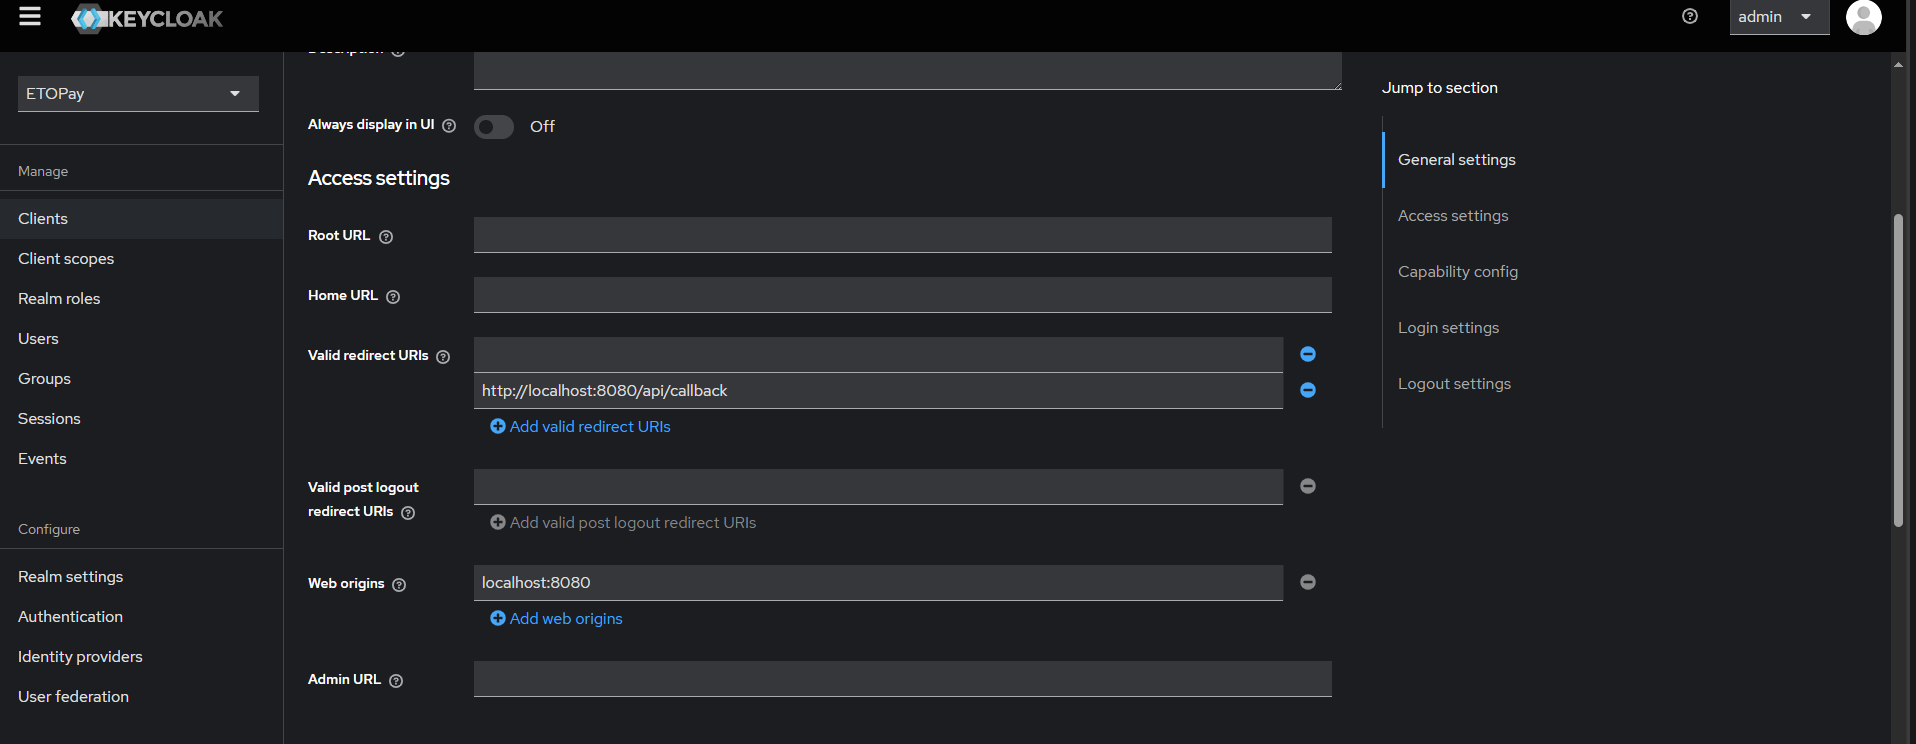
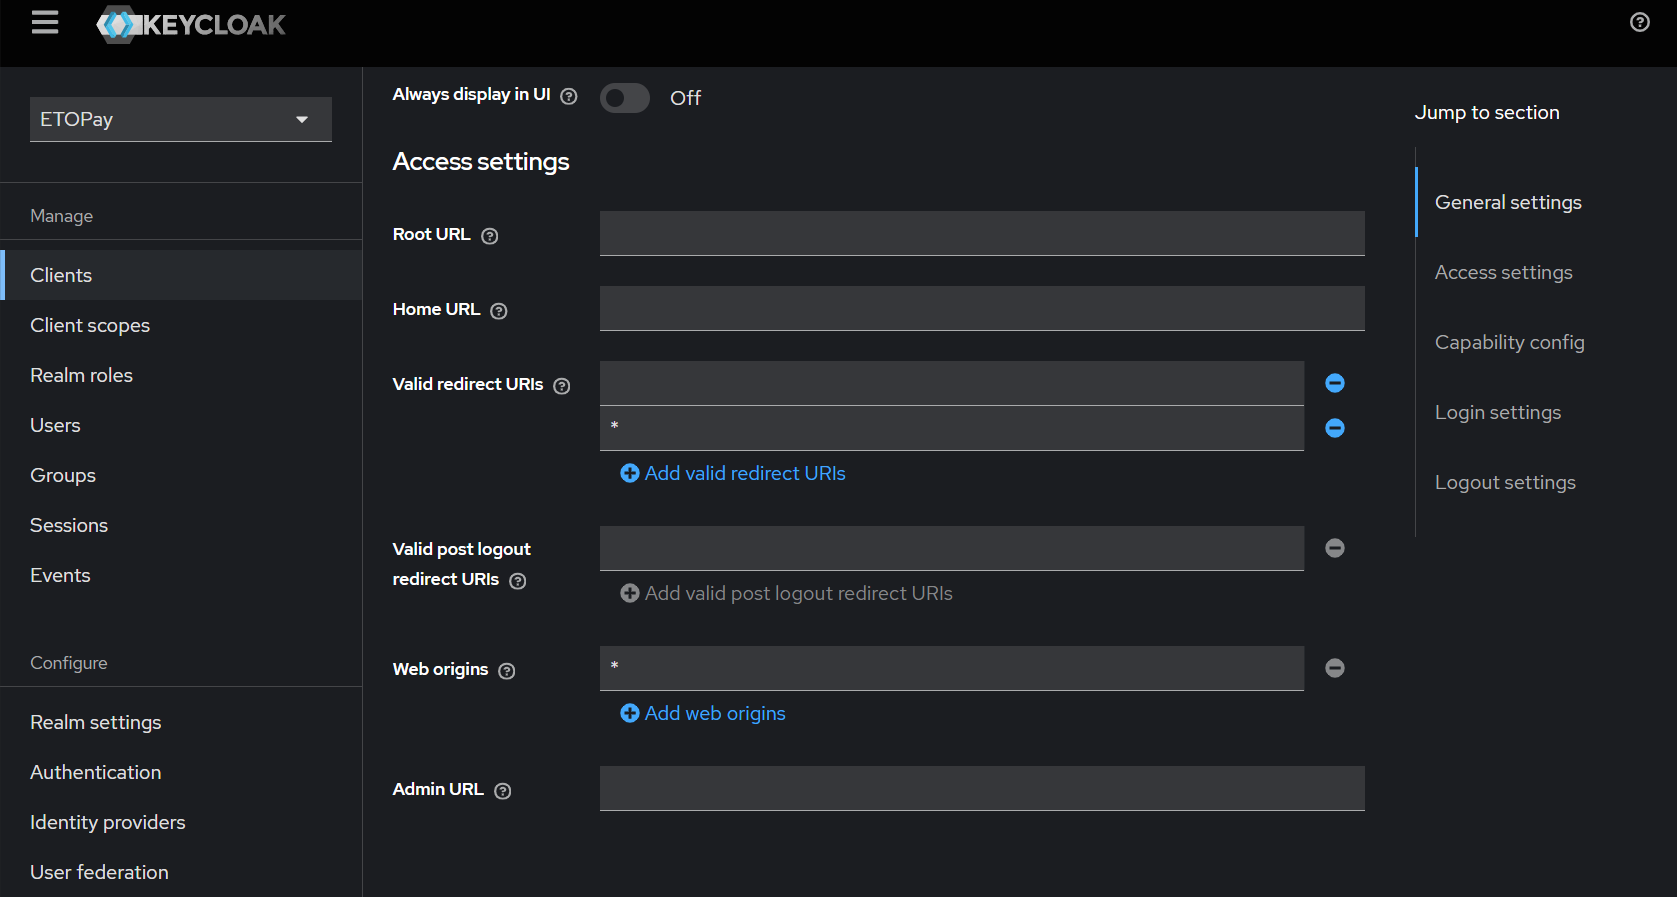
update instructions and picture

diff --git a/web-example/README.md b/web-example/README.md
@@ -21,15 +21,15 @@ This will add the ETOPay SDK to your project, and you'll be ready to start using
 
 - Copy the .env.example file to .env and set the missing values
 - Go to `https://etopayapp.etospheres.com` and get the SDK configuration for you project
-- Set the SDK configuration in `src/pages/index.js`
-- Run the web example with `pnpm run dev`
+- Set the SDK configuration in `src/pages/index.js`. And set the _auth provider_ / _realm_ in the `src/pages/api/callback.js`.
+- Run the web example with `pnpm run dev`.
 
 #### Running Locally #### 
 
 To run the web example locally, you need to:
 
-*  Enable _CORS_ for your Keycloak setup. Therefore, go to the **Clients** section in the Keycloak Admin Console, select your client and add `http://localhost:8080` to the **Web Origins** field in the **Settings** tab.
-* Specify the _redirect URL_ to `http://localhost:8080/api/callback` in the **Valid redirect URIs**.
+*  Enable _CORS_ for your Keycloak setup. Therefore, go to the **Clients** section in the Keycloak Admin Console, select your client and add `*` to the **Web Origins** field in the **Settings** tab.
+* Specify the _redirect URL_ to `*` in the **Valid redirect URIs**.
 
 ![alt text](./images/image.png)
 
